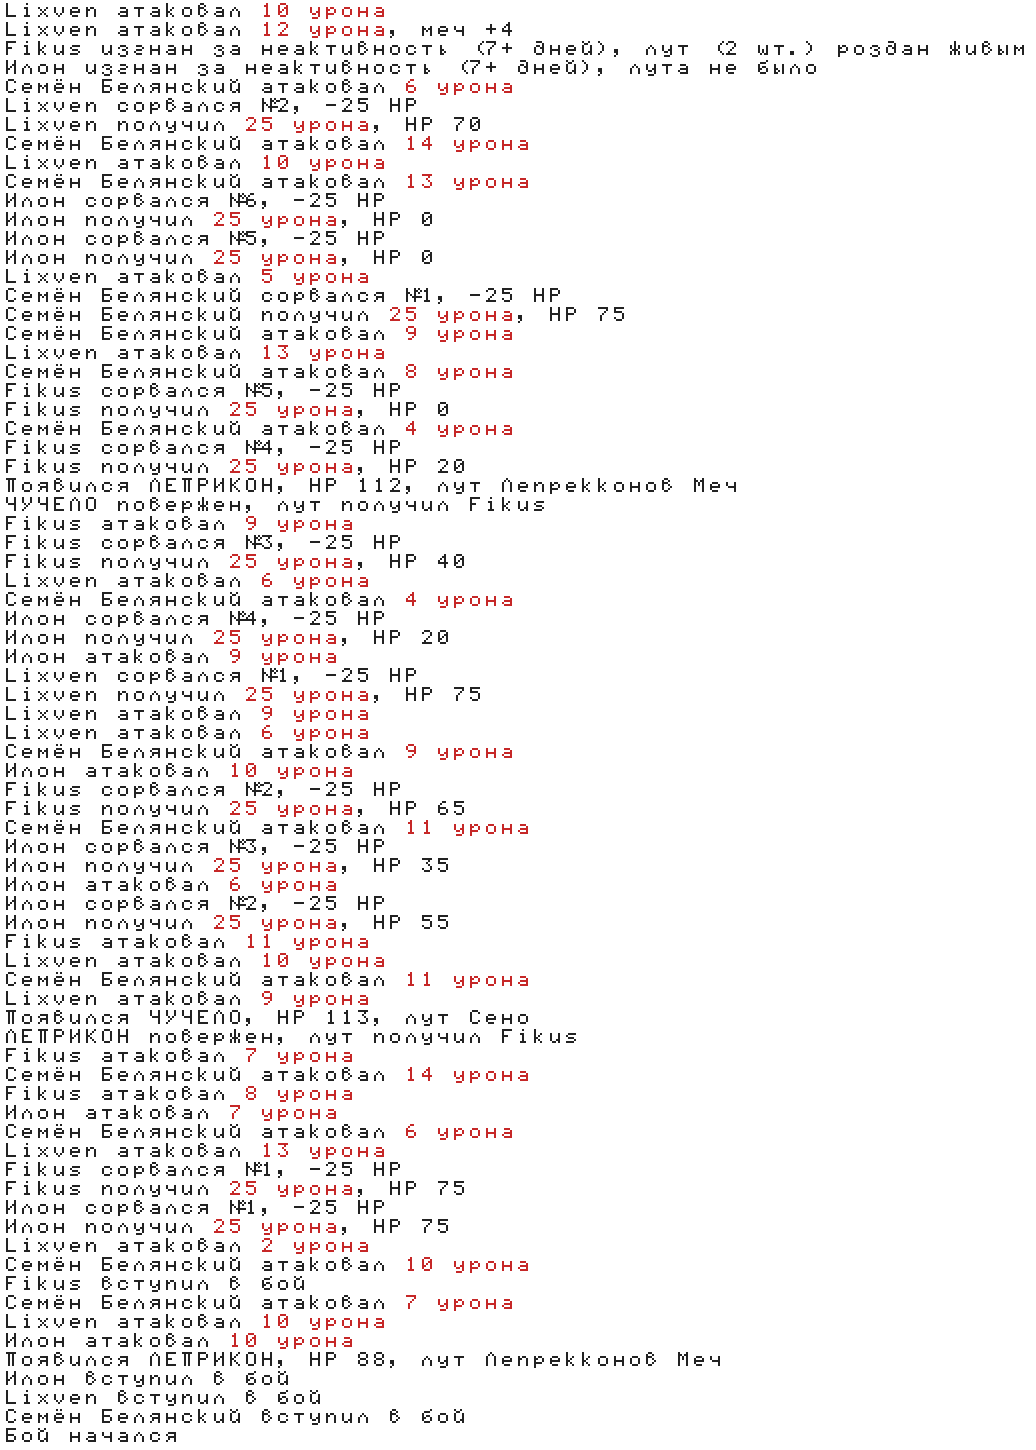
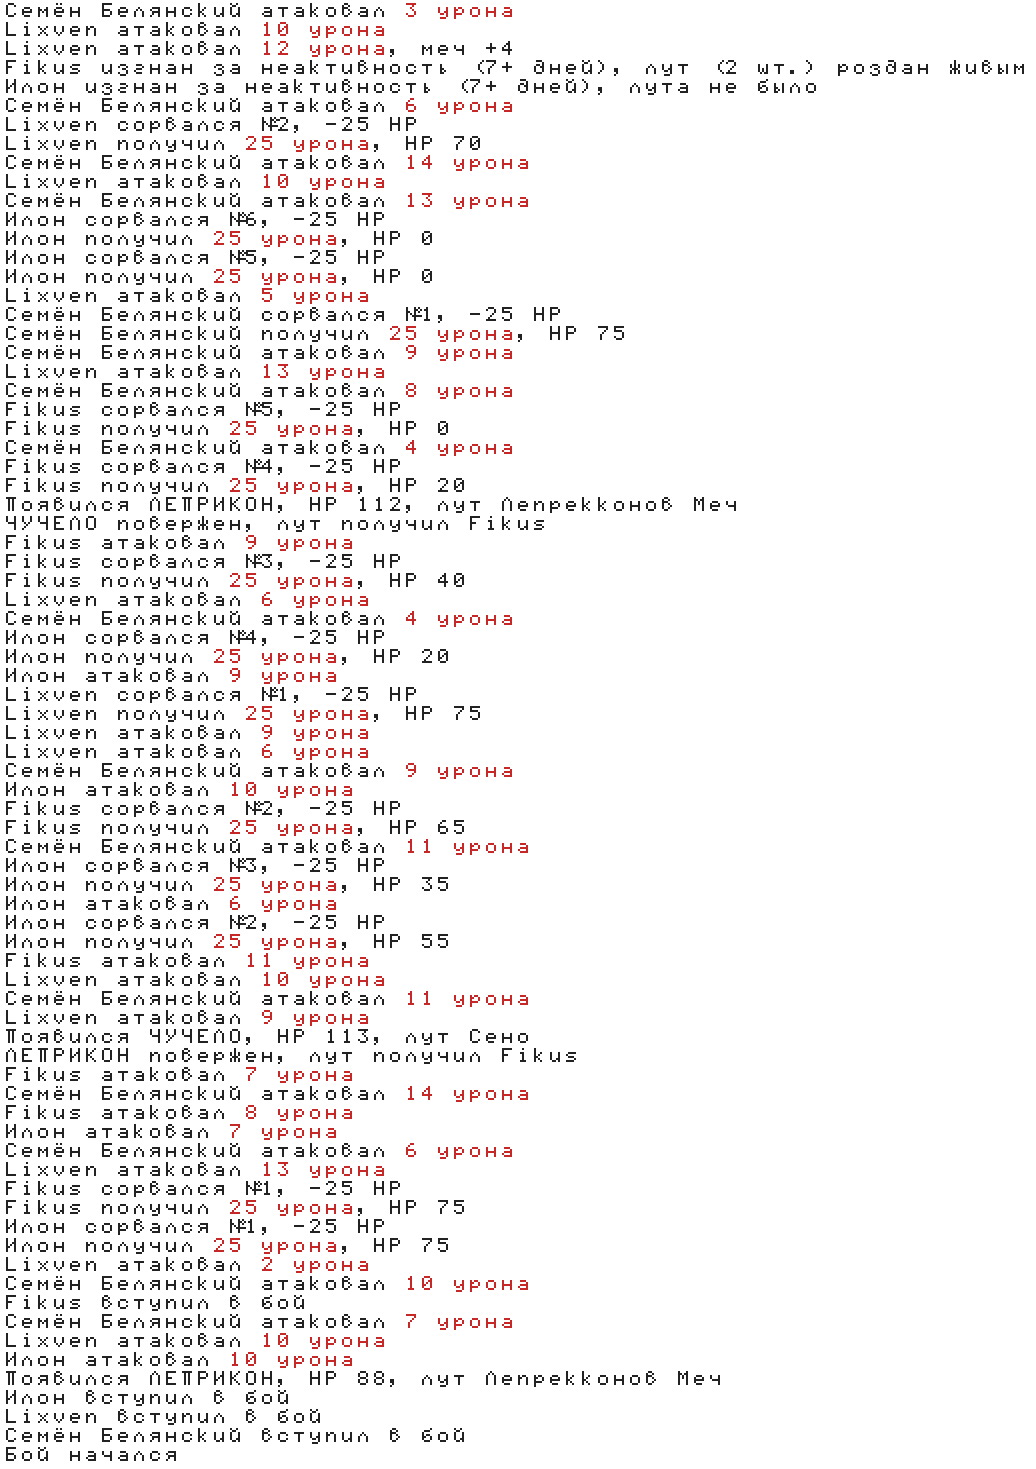
Обновление темы 2026-10-14 12:57 UTC

diff --git a/topic.html b/topic.html
@@ -11,7 +11,7 @@
  .author{font-weight:600} .when{color:#888;font-size:14px}
  .body{white-space:pre-wrap}
 </style></head><body><div class="wrap"><h1>[Команда] ЗАКОН КУБА - Ролевые игры без онанизма</h1>
-<div style="color:#666;font-size:14px;margin-bottom:20px">Постов: 59 · обновлено 14.10.2026 10:18</div>
+<div style="color:#666;font-size:14px;margin-bottom:20px">Постов: 60 · обновлено 14.10.2026 15:57</div>
 <div class="post" id="post-2717316"><div class="head"><span class="author">Семён Белянский</span><span class="when">2026-09-16T12:46:27+00:00</span></div><div class="body">И снова здравствуйте!
 У меня есть по моему мнению замечательное предложение. Было бы очень круто, если некоторые Ведущие брали бы старые Команды (лучше всего ролевые), и восстанавливали их! То есть, брали бы, писали бы в заголовке например: [Восстановленная команда] (название).
 И в правилах Команды написали бы, что ранее уже была точно такая же команда, давали бы ссылку на неё... А потом правила.
@@ -138,4 +138,5 @@
 +атака</div></div>
 <div class="post" id="post-2722222"><div class="head"><span class="author">Lixven</span><span class="when">2026-10-14T06:05:11+00:00</span></div><div class="body">+атака 13.10
 +атака 14.10</div></div>
+<div class="post" id="post-2722242"><div class="head"><span class="author">Семён Белянский</span><span class="when">2026-10-14T09:17:52+00:00</span></div><div class="body">+атака</div></div>
 </div></body></html>
